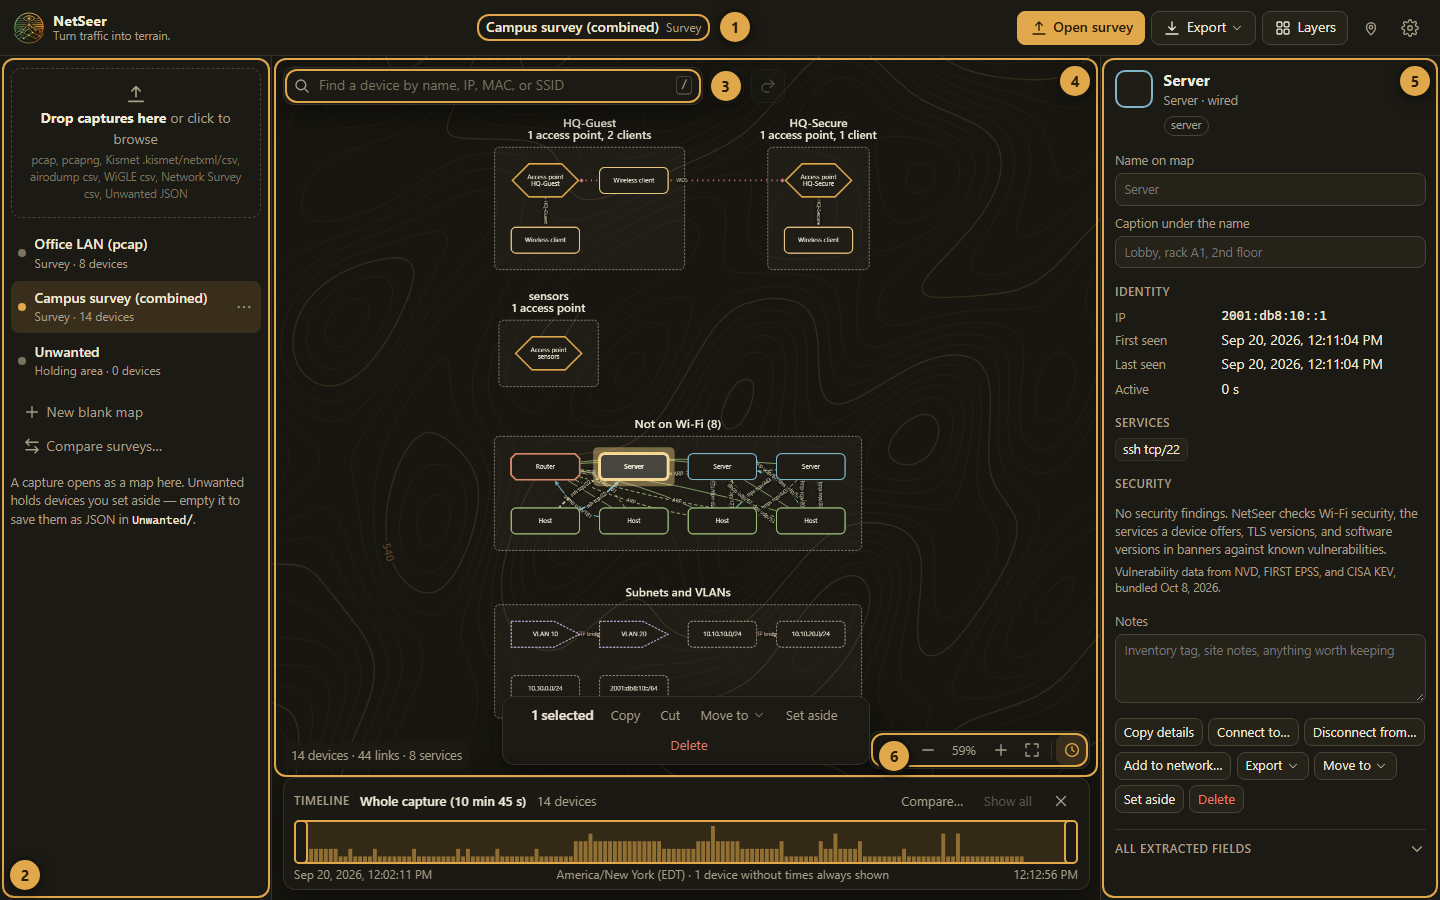
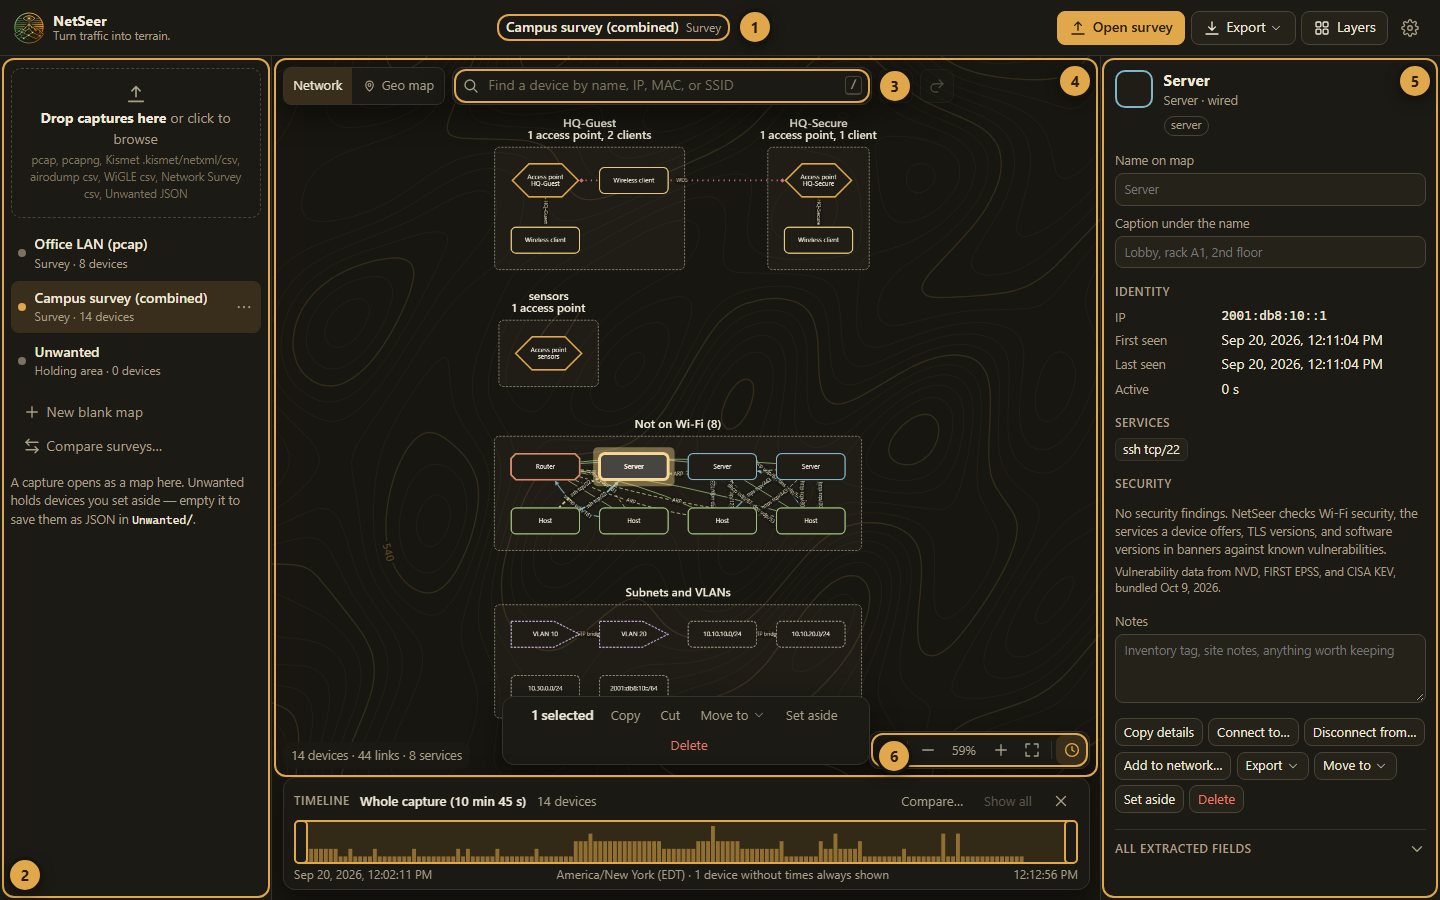
Geo map fixes: export menu, estimated toggle, accuracy, view switch
Six changes from feedback on the geo map.

- Export did nothing: the pop-up menu sat at z-index 40, below the geo map
  overlay (60), so clicking an item hit the map behind it. Menus now sit above
  overlays. (This affected any menu opened over the geo map.)
- "Estimated locations" only toggled the spread ring; devices stayed pinned to
  the estimate either way. Off now puts every device back where it was heard.
- Accuracy: each estimate is graded Good / Fair / Rough from its margin and how
  many spots the device was heard from (capped at Rough below 3 readings), shown
  as a badge in the popup and Details and a tooltip on the ring.
- The geo map moves off the title bar: a Network / Geo map toggle at the
  top-left of the map switches views (shown only for GPS surveys).
- Right-clicking a device gains a "Send to" group — move the selection straight
  to another of your maps, or a new one.
- Window min/max/close restyled to match NineLives (rounded, spaced buttons).

Docs + screenshots (geo section, context menu) updated to match.

Changed region(s): [[0.3438, 0.0, 0.6562, 0.1244], [0.6875, 0.0, 0.9688, 0.0622], [0.1875, 0.0622, 0.375, 0.1244]]

diff --git a/src/netseer/web/app.js b/src/netseer/web/app.js
@@ -3148,6 +3148,7 @@ function devicePanel(raw) {
         ? `<div class="insp-section" id="insp-location"><h3>Location</h3><dl class="facts">
         ${factRow("Sightings", n.track?.length ? [`${n.track.length} GPS ${n.track.length === 1 ? "fix" : "fixes"}`] : null)}
         ${n.extra?.est_location ? factRow("Estimated", [`${n.extra.est_location.lat}, ${n.extra.est_location.lon}`], { mono: true }) : ""}
+        ${geoAccuracy(n) ? `<dt>Accuracy</dt><dd><span class="geo-acc geo-acc-${geoAccuracy(n).grade}">${geoAccuracy(n).label} ±${escapeHtml(formatMetres(geoAccuracy(n).radius_m))}</span></dd>` : ""}
         ${n.extra?.est_location ? factRow("From", [`${n.extra.est_location.n} readings · spread ±${formatMetres(n.extra.est_location.radius_m)}`]) : ""}
       </dl>${n.extra?.est_location ? '<p class="hint">A signal-weighted estimate of where the transmitter is — most reliable when it was heard from several different spots.</p>' : ""}${gpsFixesHtml(n.track)}</div>`
         : ""
@@ -3431,6 +3432,16 @@ function connectMenuItems() {
   ];
 }
 
+// "Send to" group for the right-click menu: move the selection straight to another of your maps
+// (not Unwanted — that has its own entry), or a new one.
+function sendToItems() {
+  const targets = state.maps.filter((m) => m.id !== state.activeMapId && m.kind !== "unwanted");
+  const rows = targets.length
+    ? targets.map((m) => ({ label: m.name, hint: plural(mapNodeCount(m), "device"), onSelect: () => moveSelectedTo(m.id) }))
+    : [{ label: "No other maps yet", disabled: true }];
+  return [{ heading: "Send to" }, ...rows, { label: "New map…", onSelect: () => moveToNewMap() }];
+}
+
 function showContextMenu(x, y, onNode) {
   const hasClip = Boolean(state.clipboard?.nodes?.length);
   const items = onNode
@@ -3442,6 +3453,8 @@ function showContextMenu(x, y, onNode) {
         ...(selectedIds().length === 1 && geoLocated(nodeById(selectedIds()[0]) || {}) ? [{ label: "Show on map", onSelect: () => showDeviceOnMap(selectedIds()[0]) }, "sep"] : []),
         { label: "Set aside in Unwanted", onSelect: () => moveSelectedTo(UNWANTED_ID) },
         ...connectMenuItems(),
+        "sep",
+        ...sendToItems(),
         "sep",
         { label: "Delete", kbd: "Del", danger: true, onSelect: deleteSelected },
       ]
@@ -7524,7 +7537,16 @@ const geoLocated = (n) => (n.track && n.track.length) || (Number.isFinite(n.gps?
 const geoDevices = () => (state.graph?.nodes || []).filter((n) => isDeviceNode(n) && geoLocated(n));
 
 function syncGeoButton() {
-  show("btn-geo", geoDevices().length > 0);
+  // The Network / Geo switch only appears when the survey has somewhere to put on a map.
+  show("view-toggle", geoDevices().length > 0);
+  syncViewToggle();
+}
+
+// Reflect which view is showing in the toggle's two tabs.
+function syncViewToggle() {
+  const onGeo = !el("geo-view").classList.contains("hidden");
+  el("view-network").setAttribute("aria-selected", String(!onGeo));
+  el("view-geo").setAttribute("aria-selected", String(onGeo));
 }
 
 // Keep the geo map in step when the active map changes: forget devices that are gone, and redraw
@@ -7536,16 +7558,28 @@ function geoOnGraphChange() {
   if (geo.map && !el("geo-view").classList.contains("hidden")) renderGeo(false);
 }
 
+// How trustworthy a device's estimated location is. The margin (radius) drives the grade, but an
+// estimate from only a handful of readings is never better than "Rough" — you need to hear a device
+// from several spots to triangulate it. Returns null when there's no estimate.
+function geoAccuracy(n) {
+  const e = n.extra?.est_location;
+  if (!e || !Number.isFinite(e.radius_m)) return null;
+  const r = e.radius_m;
+  const few = (e.n || 0) < 3;
+  let grade = "rough";
+  if (!few && r <= 25) grade = "good";
+  else if (!few && r <= 75) grade = "fair";
+  const label = { good: "Good", fair: "Fair", rough: "Rough" }[grade];
+  return { grade, label, radius_m: r, n: e.n || 0, few };
+}
+
 function geoColor(n) {
   const c = themeColors();
   return c[nodeRole(n)] || c.host;
 }
 
-// Best guess of where a device is: its estimated location if we have one, else its kept fix, else
-// the mean of its sightings.
-function geoPoint(n) {
-  const e = n.extra?.est_location;
-  if (e && Number.isFinite(e.lat) && Number.isFinite(e.lon)) return { lat: e.lat, lon: e.lon, estimated: true };
+// Where a device was actually heard: its kept fix, else the mean of its sightings.
+function geoHeardPoint(n) {
   if (Number.isFinite(n.gps?.lat) && Number.isFinite(n.gps?.lon)) return { lat: n.gps.lat, lon: n.gps.lon, estimated: false };
   if (n.track?.length) {
     const la = n.track.reduce((s, p) => s + p[0], 0) / n.track.length;
@@ -7553,6 +7587,15 @@ function geoPoint(n) {
     return { lat: la, lon: lo, estimated: false };
   }
   return null;
+}
+
+// Where to draw a device. With estimates on (the default), its signal-weighted estimated location
+// when it has one; with estimates off, where it was actually heard. "Estimated locations" is what
+// moves the marker, and whether the spread ring is drawn.
+function geoPoint(n, useEstimate = true) {
+  const e = n.extra?.est_location;
+  if (useEstimate && e && Number.isFinite(e.lat) && Number.isFinite(e.lon)) return { lat: e.lat, lon: e.lon, estimated: true };
+  return geoHeardPoint(n);
 }
 
 // Compass bearing (degrees, 0 = north) from one lat/lon to another, for the operator arrow.
@@ -7595,8 +7638,13 @@ function geoVisibleDevices() {
 
 function geoPopup(n) {
   const sig = n.signal_dbm != null ? `${n.signal_dbm} dBm` : "";
-  const e = n.extra?.est_location;
-  const est = e ? `Estimated from ${e.n} readings (±${formatMetres(e.radius_m)}).` : "";
+  const acc = geoAccuracy(n);
+  const accRow = acc
+    ? `<div class="geo-pop-row geo-acc-row"><span class="geo-acc geo-acc-${acc.grade}">${acc.label} ±${escapeHtml(formatMetres(acc.radius_m))}</span>
+        <span class="hint">accuracy · ${acc.n} ${acc.n === 1 ? "reading" : "readings"}${acc.few ? ", few spots" : ""}</span></div>`
+    : n.track?.length
+      ? `<div class="geo-pop-row hint">Shown where it was heard (not enough to estimate a location)</div>`
+      : "";
   const sightings = n.track?.length ? `${n.track.length} GPS ${n.track.length === 1 ? "fix" : "fixes"}` : "";
   // Identifiers, so a device can be told apart when the map is crowded.
   const ssid = (n.ssids || []).map((s) => String(s || "").trim()).filter(Boolean)[0];
@@ -7613,7 +7661,7 @@ function geoPopup(n) {
     <div class="geo-pop-sub">${escapeHtml([inferredName(n), sig].filter(Boolean).join(" · "))}</div>
     ${idRows.map(([k, v]) => `<div class="geo-pop-row"><span class="geo-pop-k">${escapeHtml(k)}</span> ${escapeHtml(String(v))}</div>`).join("")}
     ${sightings ? `<div class="geo-pop-row">${escapeHtml(sightings)}</div>` : ""}
-    ${est ? `<div class="geo-pop-row hint">${escapeHtml(est)}</div>` : ""}
+    ${accRow}
     <button type="button" class="btn small" data-geo-open="${escapeHtml(n.id)}">Open details</button></div>`;
 }
 
@@ -7626,12 +7674,15 @@ function renderGeo(fit = false) {
   const showEst = el("geo-estimates").checked;
   const bounds = [];
   for (const n of devs) {
-    const pt = geoPoint(n);
+    const pt = geoPoint(n, showEst);
     if (!pt) continue;
     const color = geoColor(n);
     const focused = n.id === geo.focusId;
     if (showEst && n.extra?.est_location) {
-      L.circle([pt.lat, pt.lon], { radius: n.extra.est_location.radius_m || 1, color, weight: 1, opacity: 0.55, fillColor: color, fillOpacity: 0.08 }).addTo(geo.features);
+      const acc = geoAccuracy(n);
+      L.circle([pt.lat, pt.lon], { radius: n.extra.est_location.radius_m || 1, color, weight: 1, opacity: 0.55, fillColor: color, fillOpacity: 0.08 })
+        .bindTooltip(acc ? `${acc.label} accuracy · ±${formatMetres(acc.radius_m)}` : "Estimated spread")
+        .addTo(geo.features);
     }
     // A white casing around a solid fill keeps points readable over both dark markers and
     // street tiles. Estimated positions read as hollow (thicker ring, light fill).
@@ -7745,6 +7796,7 @@ function openGeoMap(focusId = null) {
     return;
   }
   el("geo-view").classList.remove("hidden");
+  syncViewToggle();
   if (focusId) {
     geo.focusId = focusId;
     if (geo.mode === "added") geo.added.add(focusId);
@@ -7776,6 +7828,7 @@ function openGeoMap(focusId = null) {
 function closeGeoMap() {
   el("geo-view").classList.add("hidden");
   geo.focusId = null;
+  syncViewToggle();
 }
 
 function setGeoMode(mode) {
@@ -7996,7 +8049,8 @@ async function exportGeoPdf() {
 }
 
 function bindGeoMap() {
-  el("btn-geo").addEventListener("click", () => openGeoMap());
+  el("view-geo").addEventListener("click", () => openGeoMap());
+  el("view-network").addEventListener("click", () => closeGeoMap());
   el("geo-close").addEventListener("click", closeGeoMap);
   el("geo-back").addEventListener("click", closeGeoMap);
   el("geo-mode-whole").addEventListener("click", () => setGeoMode("whole"));

diff --git a/src/netseer/web/styles.css b/src/netseer/web/styles.css
@@ -333,26 +333,28 @@ kbd {
 }
 
 /* Custom title bar — only in the Electron shell, which runs frameless (see electron/). */
-.window-controls { display: none; align-items: stretch; }
+/* Rounded, spaced min/max/close to match NineLives' title bar. */
+.window-controls { display: none; align-items: center; gap: 2px; margin-left: 0.15rem; }
 .win-btn {
-  width: 46px;
-  height: 100%;
+  width: 42px;
+  height: 34px;
   display: inline-flex;
   align-items: center;
   justify-content: center;
   padding: 0;
   border: 0;
+  border-radius: 8px;
   background: transparent;
   color: var(--muted);
   cursor: pointer;
 }
 .win-btn:hover { background: var(--hover); color: var(--text); }
-.win-close:hover { background: #e2483d; color: #fff; }
-.window-controls svg { pointer-events: none; }
+.win-close:hover { background: var(--danger); color: #fff; }
+.window-controls svg { pointer-events: none; width: 10px; height: 10px; }
 .window-controls path, .window-controls rect { fill: none; stroke: currentColor; stroke-width: 1.1; stroke-linecap: square; }
 .win-btn .ic-restore { display: none; }
 [data-shell="electron"] .window-controls { display: flex; }
-[data-shell="electron"] .topbar { -webkit-app-region: drag; padding-right: 0; }
+[data-shell="electron"] .topbar { -webkit-app-region: drag; padding-right: 0.35rem; }
 [data-shell="electron"] .topbar button,
 [data-shell="electron"] .topbar a,
 [data-shell="electron"] .topbar input,
@@ -391,7 +393,8 @@ kbd {
   position: absolute;
   top: calc(100% + 6px);
   left: 0;
-  z-index: 40;
+  /* Above the geo map overlay (60) and the Layers panel (50) so menus opened over them work. */
+  z-index: 70;
   min-width: 220px;
   padding: 0.3rem;
   border: 1px solid var(--line);
@@ -439,6 +442,10 @@ kbd {
 .geo-count { white-space: nowrap; }
 .geo-map { flex: 1; min-height: 0; background: var(--canvas); }
 .seg { display: inline-flex; border: 1px solid var(--line); border-radius: 8px; overflow: hidden; }
+/* The Network / Geo map switch floating over the map (top-left). */
+.view-toggle { height: 38px; background: var(--panel); box-shadow: var(--shadow); flex-shrink: 0; }
+.view-toggle .seg-btn { display: inline-flex; align-items: center; gap: 0.35rem; padding: 0 0.7rem; }
+.view-toggle .seg-btn .icon { width: 15px; height: 15px; }
 .seg-btn { background: none; border: 0; padding: 0.3rem 0.7rem; font: inherit; font-size: 13px; color: var(--muted); cursor: pointer; }
 .seg-btn[aria-selected="true"] { background: var(--accent-soft); color: var(--text); }
 .geo-timebar { display: flex; align-items: center; gap: 0.7rem; padding: 0.45rem 0.9rem; border-top: 1px solid var(--line); background: var(--raised); }
@@ -460,6 +467,12 @@ kbd {
 .geo-pop-row { font-size: 12px; margin: 0.12rem 0; }
 .geo-pop-k { display: inline-block; min-width: 4.5ch; color: var(--muted); }
 .geo-pop .btn { margin-top: 0.35rem; }
+.geo-acc-row { display: flex; align-items: baseline; gap: 0.4rem; flex-wrap: wrap; margin-top: 0.1rem; }
+/* Accuracy badge: green/amber/red for Good/Fair/Rough, used in popups and the Details panel. */
+.geo-acc { display: inline-block; padding: 0.04rem 0.4rem; border-radius: 999px; font-size: 11.5px; font-weight: 600; color: #0b0f14; white-space: nowrap; }
+.geo-acc-good { background: #3fb950; }
+.geo-acc-fair { background: #d29922; }
+.geo-acc-rough { background: #f0883e; }
 /* Focused-device pulse + operator "now" marker (Leaflet divIcons) */
 .geo-pulse-icon, .geo-operator-icon { background: none; border: 0; }
 .geo-pulse { display: block; width: 26px; height: 26px; border-radius: 50%; border: 2px solid var(--geo-pulse, #3aa0ff); animation: geo-pulse 1.6s ease-out infinite; }

diff --git a/src/netseer/web/index.html b/src/netseer/web/index.html
@@ -76,9 +76,6 @@
         <button id="btn-layers" class="btn" type="button" aria-haspopup="dialog" aria-expanded="false" title="Layers: arrangement, link types, and the device key">
           <svg class="icon"><use href="#i-layout" /></svg><span>Layers</span>
         </button>
-        <button id="btn-geo" class="icon-btn hidden" type="button" aria-label="Geo map" title="Show this survey on a map (GPS)">
-          <svg class="icon"><use href="#i-geo" /></svg>
-        </button>
         <button id="btn-settings" class="icon-btn" type="button" aria-label="Settings" aria-haspopup="dialog" title="Settings, help, and updates">
           <svg class="icon"><use href="#i-cog" /></svg>
           <span id="update-dot" class="update-dot hidden" aria-hidden="true"></span>
@@ -171,6 +168,10 @@
         <div id="map" class="map" role="application" aria-label="Network map"></div>
 
         <div class="canvas-top">
+          <div id="view-toggle" class="seg view-toggle hidden" role="tablist" aria-label="Map view">
+            <button id="view-network" class="seg-btn" type="button" role="tab" aria-selected="true" title="The network map">Network</button>
+            <button id="view-geo" class="seg-btn" type="button" role="tab" aria-selected="false" title="Where devices were seen (GPS)"><svg class="icon"><use href="#i-geo" /></svg> Geo map</button>
+          </div>
           <div class="search">
             <svg class="icon"><use href="#i-search" /></svg>
             <input id="search" type="search" placeholder="Find a device by name, IP, MAC, or SSID" autocomplete="off" aria-label="Find a device" />

diff --git a/docs/screenshots.py b/docs/screenshots.py
@@ -259,6 +259,8 @@ def capture(url: str, channel: str | None) -> list[str]:
         aps = page.evaluate("() => state.graph.nodes.filter(n => nodeRole(overlayNode(n)) === 'ap').map(n => n.id)")
         page.evaluate("(ids) => selectNodes(ids)", aps)
         shots.save("multi-select", full=True)
+        # A single device (Office LAN is already open as a second map, so "Send to" shows a real target).
+        page.evaluate("(id) => selectNodes([id])", aps[0])
         x, y = node_screen_pos(page, aps[0])
         page.mouse.click(x, y, button="right")
         page.wait_for_selector("body > .menu")

diff --git a/docs/user-guide.md b/docs/user-guide.md
@@ -162,9 +162,9 @@ Shift-click (or Ctrl-click) to select several devices, or hold Shift and drag a 
 
 ![Three access points selected, with the selection toolbar and a count in the details panel](images/multi-select.png)
 
-Right-click a device for the same actions:
+Right-click a device for the same actions, plus **Send to** — move the selection straight to another of your maps (or a new one):
 
-![Right-click menu with Copy, Cut, Paste, Set aside in Unwanted, and Delete](images/context-menu.png)
+![Right-click menu with Copy, Cut, Paste, Set aside in Unwanted, Send to another map, and Delete](images/context-menu.png)
 
 **Move to** sends devices straight to another map, or to a new one:
 
@@ -275,11 +275,12 @@ Your layer choices are remembered.
 
 ## The geo map
 
-When a survey has GPS — Kismet logs, and WiGLE or Craxiom wardrives — the **map-pin button** in the top bar opens a real-world map of where devices were seen. You can also open it focused on one device from its **Details** (**Show on map**), by right-clicking it, or by right-clicking a survey in the **Maps** list. **← Network map** (top left) takes you back.
+When a survey has GPS — Kismet logs, and WiGLE or Craxiom wardrives — a **Network / Geo map** toggle appears at the top-left of the map. Switch to **Geo map** for a real-world map of where devices were seen, and back to **Network** (or **← Network map**) to return. You can also open it focused on one device from its **Details** (**Show on map**), by right-clicking it, or by right-clicking a survey in the **Maps** list.
 
 - The **Basemap** menu picks the map background. It starts on **Streets — online**, which fetches map tiles from openstreetmap.org — the one option that goes online. Choose **No basemap** for a plain grid where nothing leaves your computer.
 - **Offline map packs.** In the field, where the street tiles aren't reachable, load a map pack: **Load pack…** takes an `.mbtiles` file (a standard offline tile pack of a chosen area), and it then appears in the **Basemap** menu. Packs are kept on this computer; **Remove pack** deletes the selected one. This option is hidden on the hosted copy.
-- Each device sits at its **estimated location** when it has one (a signal-weighted guess at the transmitter; see [Details](#inspect-a-device)), otherwise where it was heard. **Estimated locations** also draws a faint ring for the estimate's spread. Markers carry a bright casing so they stand out over streets; click one for its SSID, MAC, channel, and signal.
+- Each device sits at its **estimated location** when it has one (a signal-weighted guess at the transmitter; see [Details](#inspect-a-device)), with a faint ring for the estimate's spread. Turn **Estimated locations** off to put every device back where it was actually heard, with no ring. Markers carry a bright casing so they stand out over streets; click one for its SSID, MAC, channel, signal, and an **accuracy** badge.
+- **Accuracy** grades each estimate **Good**, **Fair**, or **Rough** from its margin (±metres) and how many spots the device was heard from — an estimate from only a couple of readings is never better than Rough. It shows in the popup, on the device's **Details**, and on hover over the spread ring.
 - Focused on one device, each sighting is a dot joined in the order it was seen, with the estimate marked and the device **pulsing** so it's easy to find.
 - **Operator path** traces the route the survey drove, with an **arrow at the operator's position** for the time you're viewing; the **time** slider replays the drive. Show the **whole capture** at once, or switch to **Added only** to build the map up with **Show on map** as you go.
 - **Export** saves the current view — markers, route, legend and all — as a **PNG image** or a one-page **PDF**, for a briefing or a report. You can also tick **Geo map** when making a [PDF report](#create-a-pdf-report) to drop the map in as its own page.

diff --git a/docs/netseer-how-to.md b/docs/netseer-how-to.md
@@ -273,11 +273,12 @@ Access points show their SSID as a second line (`HQ-Secure`, `HQ-Secure +2` for 
 
 ## Geo map (GPS)
 
-When a survey has GPS (Kismet logs, WiGLE and Craxiom wardrives), the **map-pin button** in the top bar opens a real-world map of where devices were seen. **Show on map** in a device's Details — or right-click → **Show on map**, or right-click a survey in the **Maps** list — opens it there; **← Network map** goes back.
+When a survey has GPS (Kismet logs, WiGLE and Craxiom wardrives), a **Network / Geo map** toggle at the top-left of the map switches to a real-world map of where devices were seen; **Network** (or **← Network map**) goes back. **Show on map** in a device's Details — or right-click → **Show on map**, or right-click a survey in the **Maps** list — opens it focused on one device.
 
 - **Basemap** menu: **Streets — online** (the default; fetches OpenStreetMap tiles — the one thing that goes online), or **No basemap** (a plain grid, fully offline).
 - **Offline map packs** (`GET/POST/DELETE /api/mappacks`). **Load pack…** uploads a raster `.mbtiles` pack (PNG/JPEG tiles); it's validated, kept in the user data dir (`<data>/mappacks/`), and added to the **Basemap** menu, which then serves its tiles from `GET /api/mappacks/{id}/{z}/{x}/{y}`. **Remove pack** deletes the selected one. Not available on the hosted copy, which never writes to the server's disk. Vector (`pbf`) packs are rejected with a message.
-- **Each device** sits at its best-known spot: its **estimated location** (see [Details panel](#details-panel)) when it has one, otherwise where it was heard. Markers have a bright casing to read over street tiles; click one for its SSID, MAC, channel, signal, sightings, and **Open details**. **Estimated locations** also draws a faint ring for the estimate's spread.
+- **Each device** sits at its **estimated location** (see [Details panel](#details-panel)) when it has one, with a faint ring for the spread. Turn **Estimated locations** off to put devices back where they were actually heard (no ring). Markers have a bright casing to read over street tiles; click one for its SSID, MAC, channel, signal, sightings, an **accuracy** grade, and **Open details**.
+- **Accuracy** grades an estimate **Good** (≤25 m), **Fair** (≤75 m), or **Rough** from its radius, but caps at **Rough** when it came from fewer than 3 readings. Shown in the popup, the Details **Location** section, and a tooltip on the ring.
 - **Focused on one device**, every sighting is a small dot joined in the order it was seen — the device's own path, with the estimate marked — and the device **pulses** so it stands out in a crowd.
 - **Operator path** draws the route the survey took (every sighting, in time order), with an **arrow at the operator's position** for the current time.
 - **Time** slider: drag to reveal sightings up to a chosen time and replay the drive; the operator arrow moves with it.
